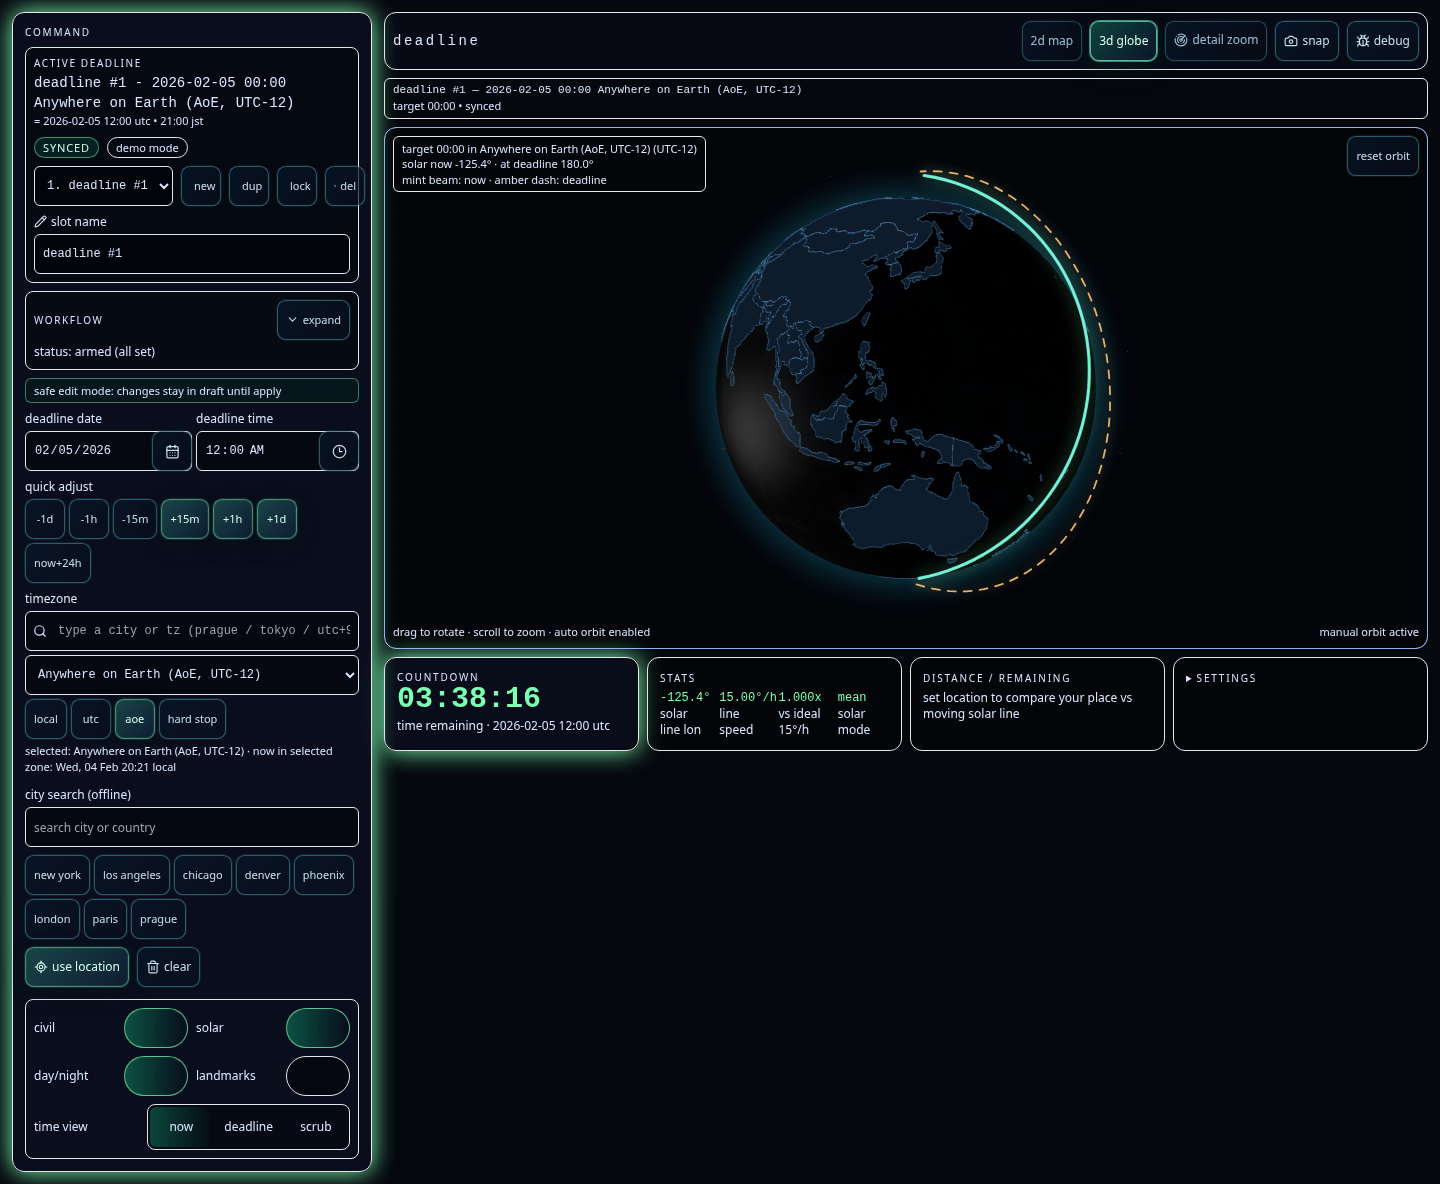
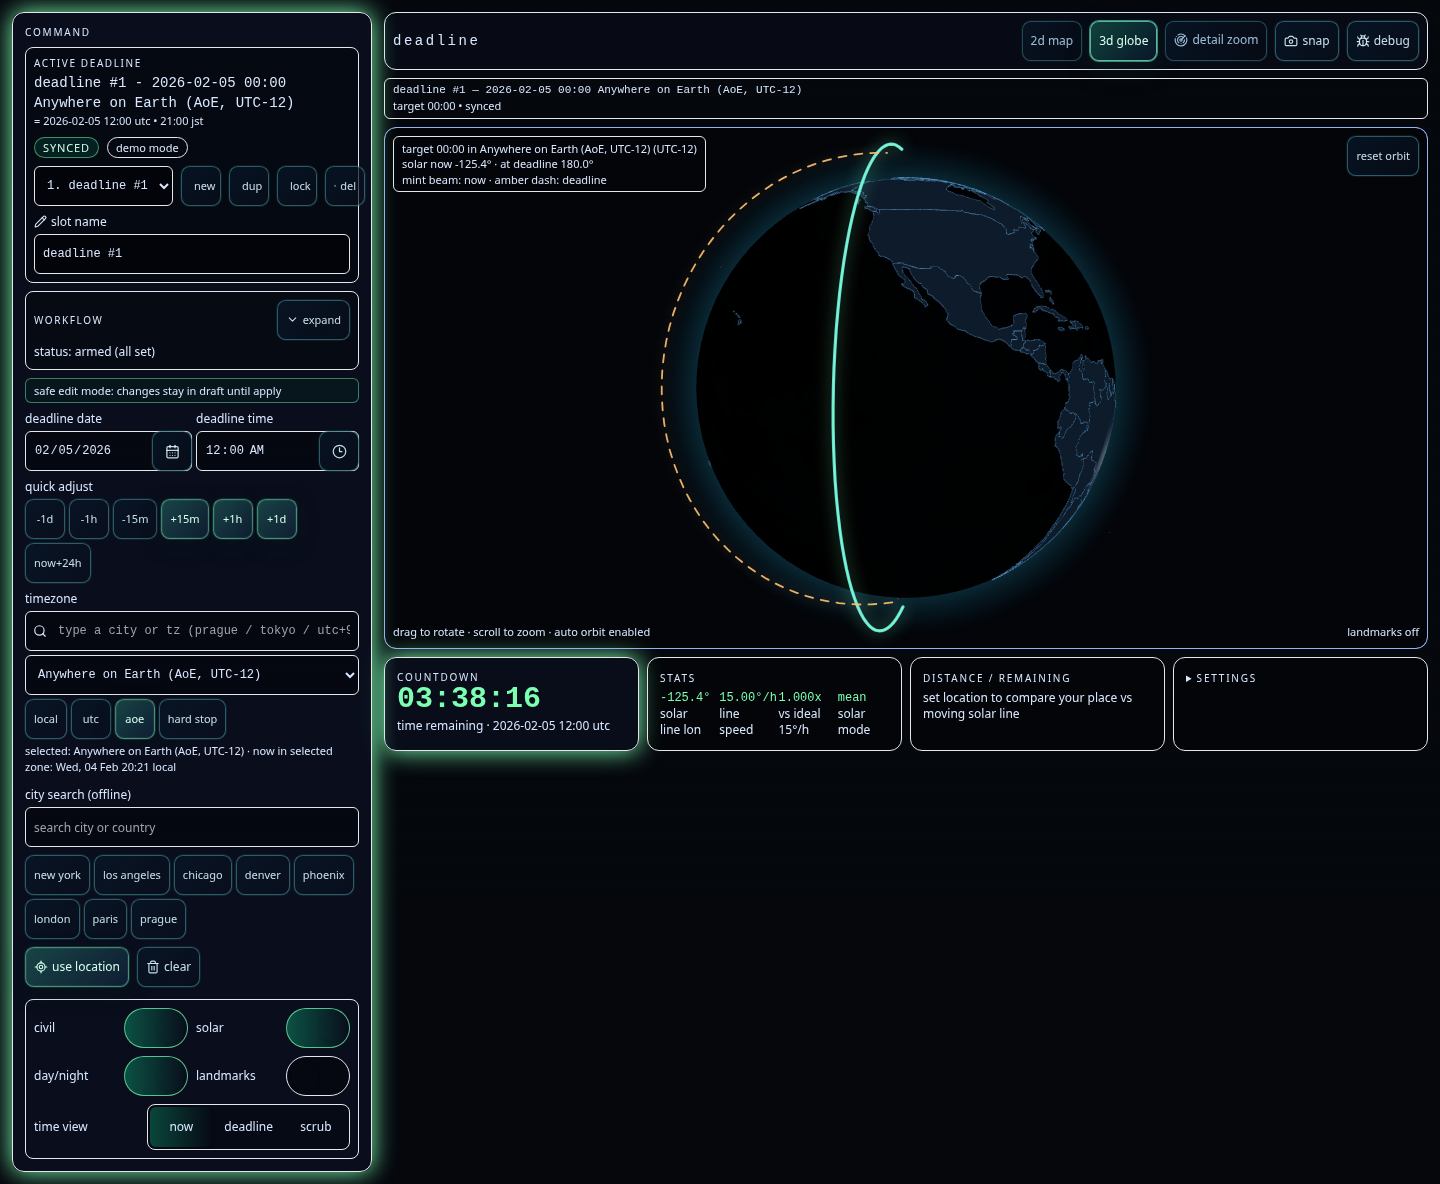
chore: make 3d screenshot capture deterministic

Changed region(s): [[0.4688, 0.125, 0.7812, 0.5312], [0.9375, 0.5312, 0.9688, 0.5625]]

diff --git a/src/views/globe3d/Globe3DView.tsx b/src/views/globe3d/Globe3DView.tsx
@@ -164,6 +164,24 @@ export default function Globe3DView({
   }, [])
 
   useEffect(() => {
+    if (!captureMode) {
+      return
+    }
+
+    const bridge = window as Window & {
+      __deadlineCaptureSetGlobeView?: (lat: number, lng: number, altitude?: number) => void
+    }
+
+    bridge.__deadlineCaptureSetGlobeView = (lat: number, lng: number, altitude = 2.1) => {
+      globeRef.current?.pointOfView({ lat, lng, altitude }, 0)
+    }
+
+    return () => {
+      delete bridge.__deadlineCaptureSetGlobeView
+    }
+  }, [captureMode])
+
+  useEffect(() => {
     let active = true
 
     fetch(assetUrl('data/world-110m.topo.json'))

diff --git a/docs/agents/implementation/daily_log.md b/docs/agents/implementation/daily_log.md
@@ -73,3 +73,4 @@
   - detail-view deterministic capture style (no external tile dependency)
   - capture script waits for explicit 3D/detail readiness markers
 - Updated screenshot drift gate to compare pixel deltas with a strict tolerance threshold instead of raw file-byte equality.
+- Replaced rotated 3D screenshot mouse-drag capture with a deterministic capture bridge (`__deadlineCaptureSetGlobeView`) to reduce flaky frame-to-frame variation.
